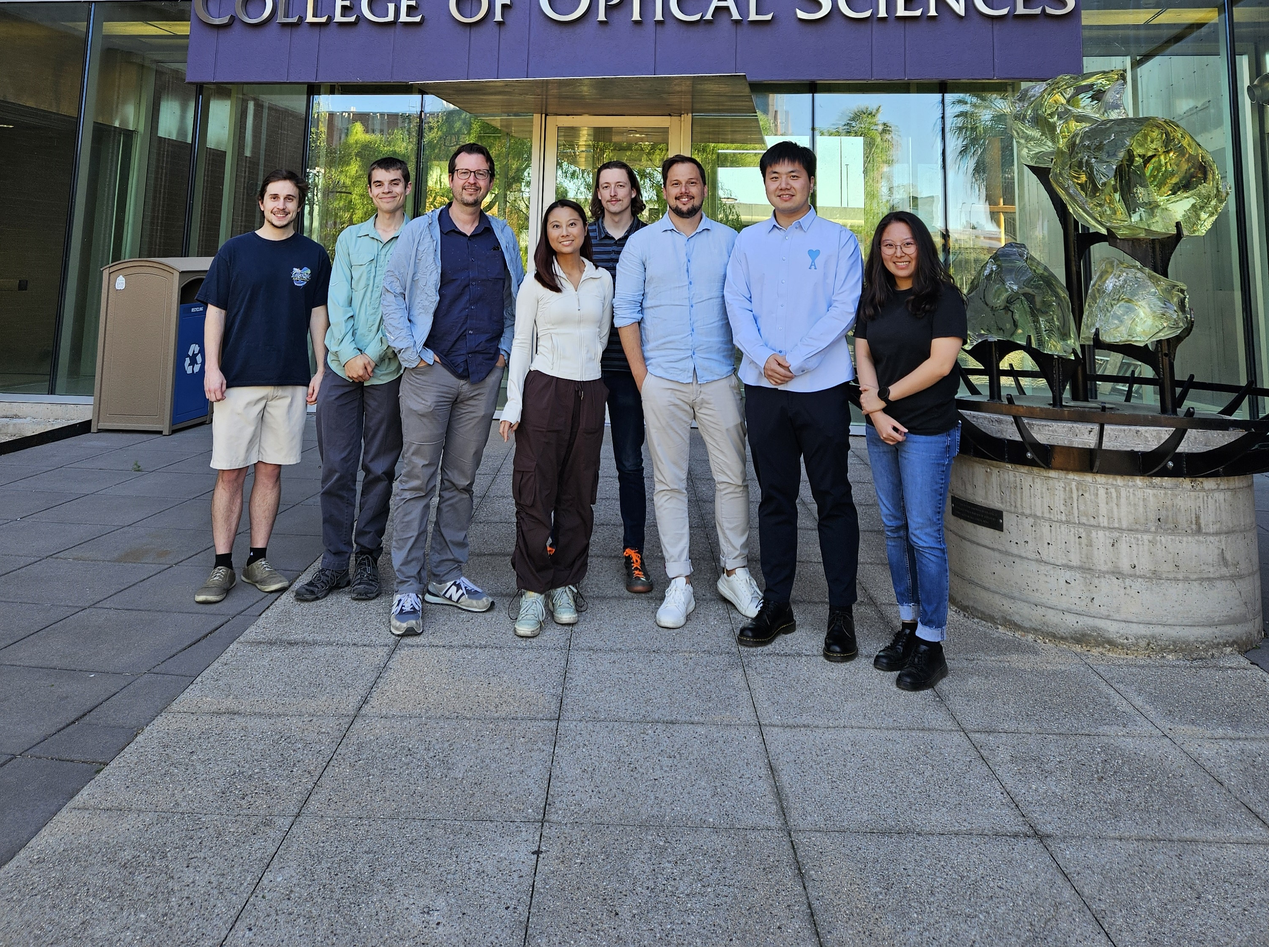
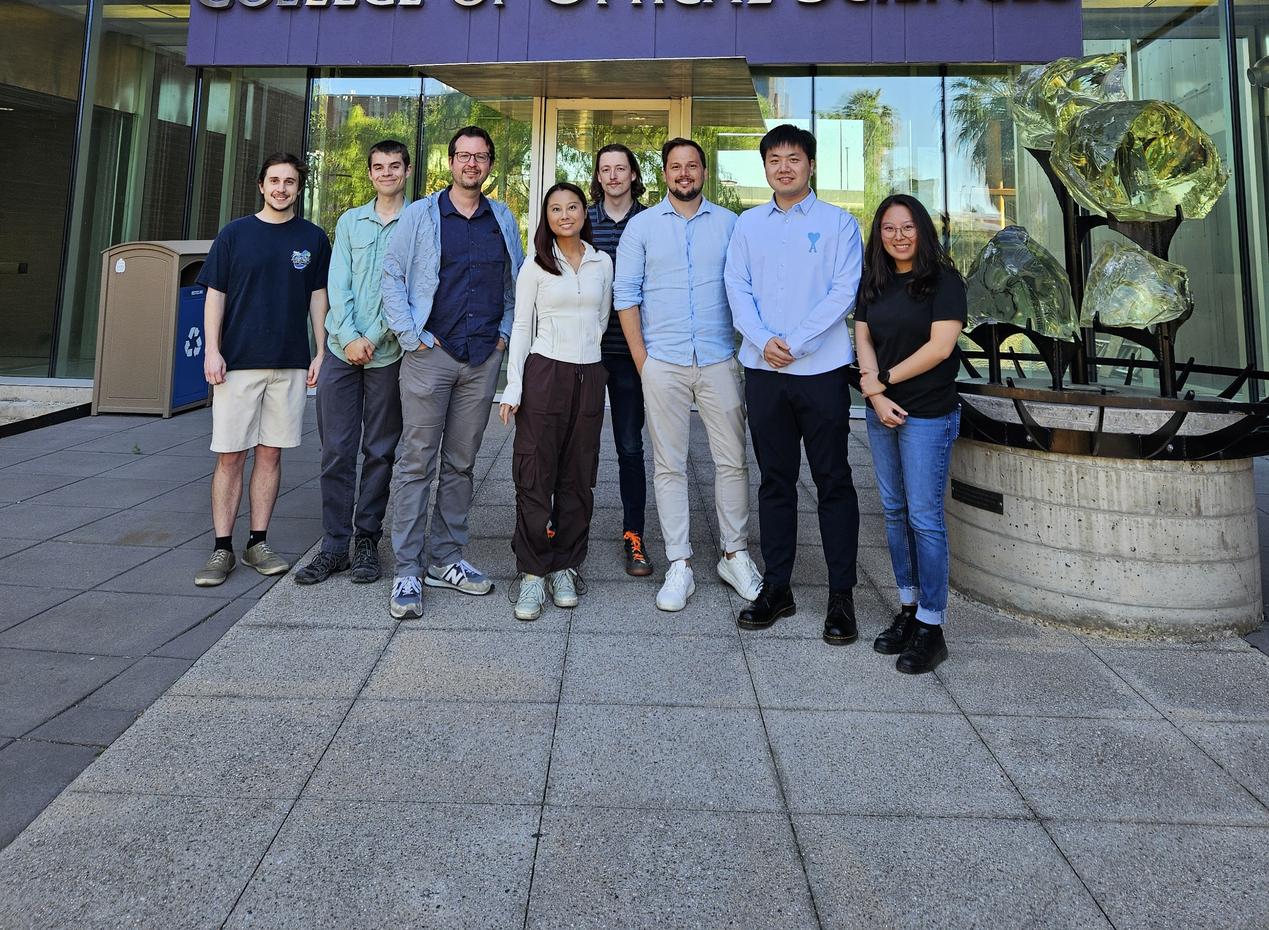
Cropping tweaks for header image

diff --git a/assets/scss/custom.scss b/assets/scss/custom.scss
@@ -267,5 +267,5 @@ img.icon-custom.big-icon {
 }
 
 #landing-header div.home-section-bg.bg-image {
-  background-position: 0%;
+  background-position: top;
 }
